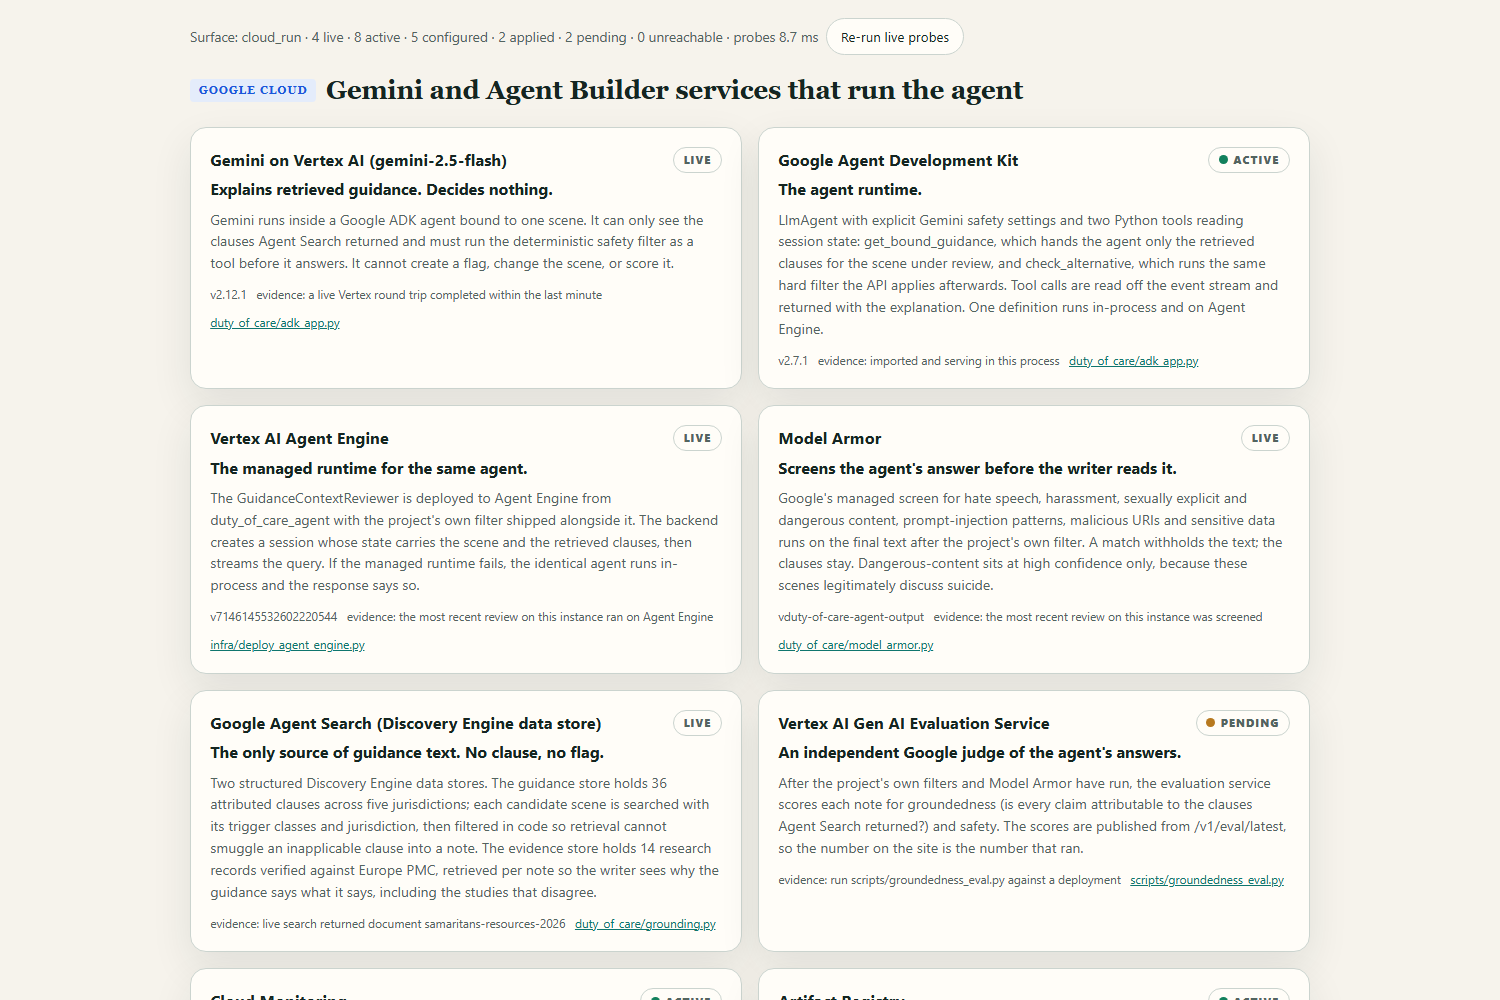
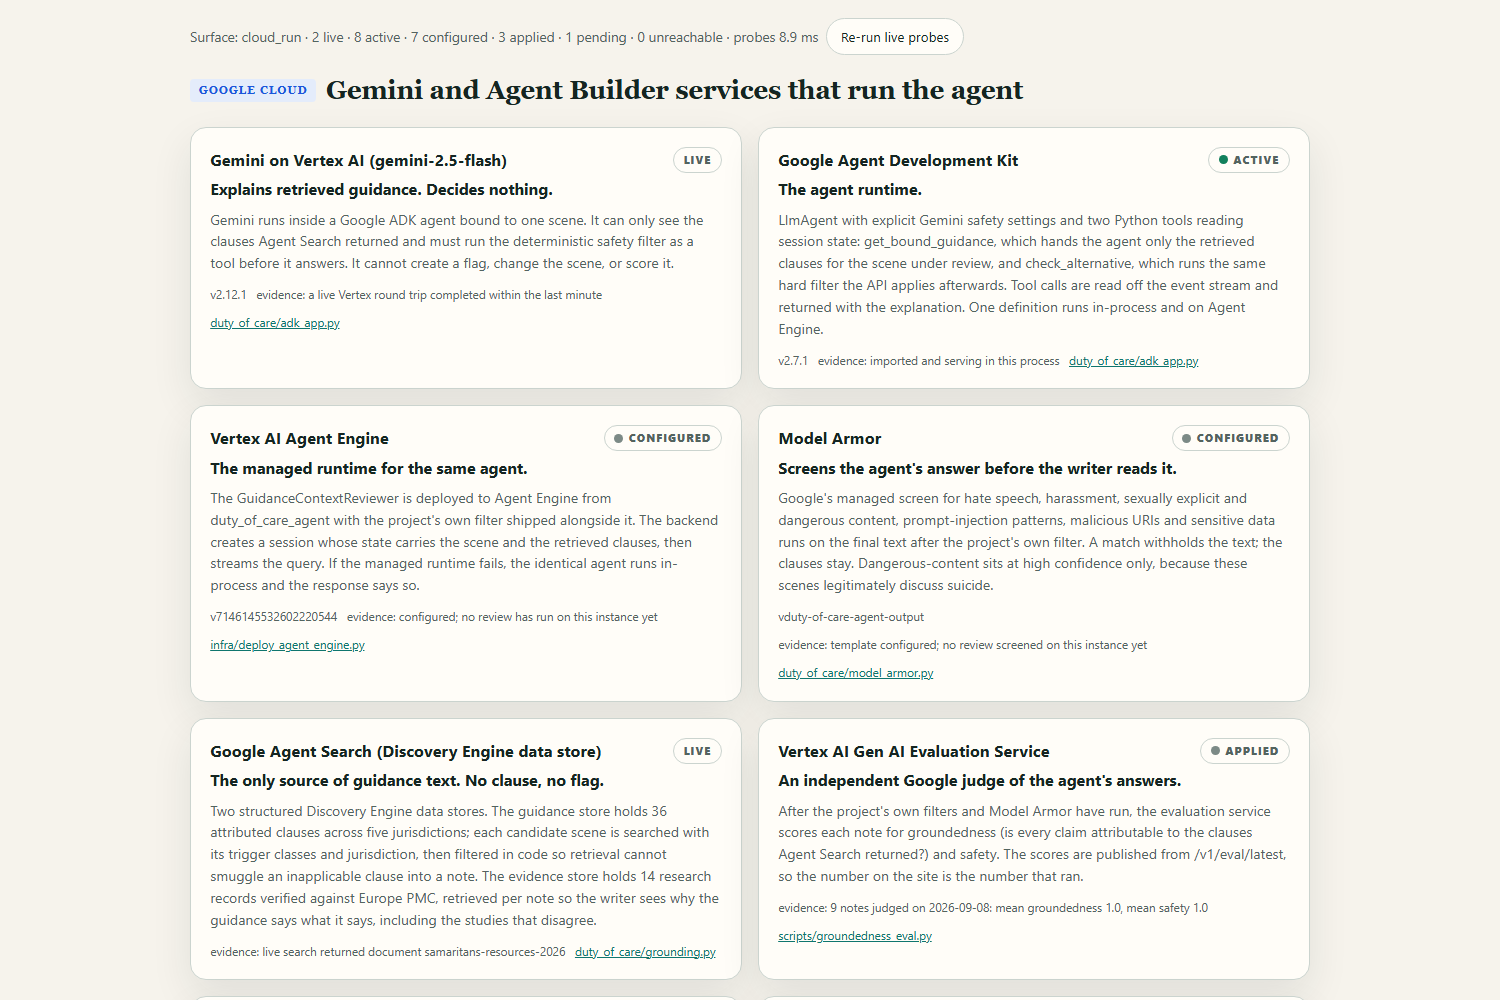
Tell the truth about both surfaces from the Replit deployment
When this host proxies to the Cloud Run backend, /health and /v1/stack read the
Google group from the backend and label it, while the Replit group is computed
locally, so the Replit URL reports Autoscale as active and the backend's live
probes for Gemini, Agent Search, Agent Engine, and Model Armor. Exports fall
back to a local file with a stated reason when App Storage has no bucket yet.

diff --git a/duty_of_care/main.py b/duty_of_care/main.py
@@ -170,12 +170,28 @@ async def _live_integrations() -> dict[str, Any]:
     now = time.monotonic()
     if _HEALTH["value"] and now - float(_HEALTH["checked"]) < 60:
         return dict(_HEALTH["value"])  # type: ignore[arg-type]
+    runtime = replit_platform.runtime()
+    if _backend_url():
+        try:
+            remote = (await asyncio.to_thread(_fetch_backend_json, "/health/integrations"))["data"]["integrations"]
+            google = {key: {**dict(remote.get(key, {"ok": False})), "via": "backend"} for key in ("google_vertex", "agent_search", "google_adk")}
+            backend = {"ok": True, "url": _backend_url()}
+        except Exception as exc:  # noqa: BLE001 - reported, never hidden
+            google = {key: {"ok": False, "detail": f"backend unreachable ({type(exc).__name__})", "via": "backend"} for key in ("google_vertex", "agent_search", "google_adk")}
+            backend = {"ok": False, "url": _backend_url()}
+        value = {
+            **google,
+            "api_keys": {"ok": apikeys.configured()},
+            "replit": {"ok": runtime["on_replit"], "host": runtime["domains"], "deployment": runtime["deployment"]},
+            "backend": backend,
+        }
+        _HEALTH.update(checked=now, value=value)
+        return value
     vertex, search = await asyncio.gather(
         asyncio.to_thread(_vertex_probe),
         asyncio.to_thread(probe_search),
         return_exceptions=True,
     )
-    runtime = replit_platform.runtime()
     value = {
         "google_vertex": vertex if isinstance(vertex, dict) else {"ok": False, "detail": type(vertex).__name__},
         "agent_search": search if isinstance(search, dict) else {"ok": False, "detail": str(search)[:360]},
@@ -192,6 +208,26 @@ async def _live_integrations() -> dict[str, Any]:
 
 def _corpus_version() -> str:
     return replit_platform.corpus_version(CORPUS)
+
+
+def _backend_url() -> str | None:
+    """The Google backend this host proxies to, when this host has no Google credentials.
+
+    On Replit the Google services are answered by Cloud Run, so health and stack
+    for the Google group are read from the backend and labelled as such; the
+    Replit group is always computed locally, because only this process knows it.
+    """
+    url = os.getenv("DUTY_OF_CARE_BACKEND_URL")
+    if url and not os.getenv("VERTEX_SEARCH_DATA_STORE"):
+        return url.rstrip("/")
+    return None
+
+
+def _fetch_backend_json(path: str) -> dict[str, Any]:
+    import urllib.request
+
+    with urllib.request.urlopen(f"{_backend_url()}{path}", timeout=90) as response:  # noqa: S310 - fixed, allowlisted origin
+        return json.loads(response.read().decode("utf-8"))
 
 
 # ------------------------------------------------------------------ pages ----
@@ -242,6 +278,23 @@ async def stack() -> dict[str, object]:
         evidence_store=evidence.configured(),
         agent_quality=run_benchmark(ROOT).get("agent_quality"),
     )
+    if _backend_url():
+        # The Google group is the backend's own live view; only the Replit and app
+        # groups are this host's to report.
+        try:
+            remote = (await asyncio.to_thread(_fetch_backend_json, "/v1/stack"))["data"]
+            google = [dict(component, evidence=((component.get("evidence") or "") + " (reported by the Cloud Run backend)").strip()) for component in remote["components"] if component["group"] == "google"]
+            payload["components"] = google + [component for component in payload["components"] if component["group"] != "google"]
+            payload["backend"] = {"url": _backend_url(), "surface": remote.get("surface")}
+        except Exception as exc:  # noqa: BLE001 - shown as unreachable rather than invented
+            for component in payload["components"]:
+                if component["group"] == "google":
+                    component["status"] = "unreachable"
+                    component["evidence"] = f"backend unreachable ({type(exc).__name__})"
+        payload["summary"] = {
+            state: sum(1 for c in payload["components"] if c["status"] == state)
+            for state in ("live", "active", "configured", "applied", "pending", "unreachable")
+        }
     payload["timing"] = {"query_ms": round((time.perf_counter() - started) * 1000, 1)}
     return {"data": payload, "disclaimer": validate_rendered_text(DISCLAIMER)}
 
@@ -736,21 +789,20 @@ async def create_export(body: ExportBody, request: Request) -> dict[str, object]
     _limited(request, "exports")
     if "disclaimer" not in body.review:
         raise _fail(422, "disclaimer_required", "An export must carry data.disclaimer.", "Send the review payload exactly as /v1/review returned it.")
-    store = replit_platform.export_store()
     payload = json.dumps(
         {"title": body.title, "exported_at": replit_platform.now_iso(), "review": body.review, "meta": body.meta},
         indent=2,
     )
-    export_id = store.put(body.title, payload)
+    export_id, backend, note = replit_platform.put_export(body.title, payload)
     return {
         "ok": True,
-        "data": {"export_id": export_id, "url": f"/v1/exports/{export_id}", "backend": store.backend, "bytes": len(payload)},
+        "data": {"export_id": export_id, "url": f"/v1/exports/{export_id}", "backend": backend, "note": note, "bytes": len(payload)},
     }
 
 
 @app.get("/v1/exports/{export_id}")
 async def get_export(export_id: str) -> Response:
-    text = replit_platform.export_store().get(export_id)
+    text = replit_platform.get_export(export_id)
     if text is None:
         raise _fail(404, "export_not_found", "No export with that id on this host.", "Exports on Cloud Run are ephemeral; on Replit they live in App Storage.")
     return Response(

diff --git a/tests/test_backend_surface.py b/tests/test_backend_surface.py
@@ -1,0 +1,84 @@
+"""When this host proxies to the Cloud Run backend, health and stack tell the truth about both sides."""
+
+from __future__ import annotations
+
+import pytest
+from fastapi.testclient import TestClient
+
+from duty_of_care import main, replit_platform
+from duty_of_care.main import app
+
+
+@pytest.fixture(autouse=True)
+def _surface(monkeypatch: pytest.MonkeyPatch, tmp_path):
+    monkeypatch.setenv("DUTY_OF_CARE_BACKEND_URL", "https://backend.example")
+    monkeypatch.delenv("VERTEX_SEARCH_DATA_STORE", raising=False)
+    monkeypatch.setenv("REPL_ID", "abc")
+    monkeypatch.setenv("REPLIT_DEPLOYMENT", "1")
+    monkeypatch.setenv("REPLIT_DOMAINS", "duty-of-care.replit.app")
+    monkeypatch.setenv("DUTY_OF_CARE_STATE_DIR", str(tmp_path))
+    replit_platform.reset_stores()
+    yield
+    replit_platform.reset_stores()
+
+
+def test_health_reads_google_from_backend_and_replit_locally(monkeypatch: pytest.MonkeyPatch) -> None:
+    def fake_fetch(path: str):
+        assert path == "/health/integrations"
+        return {"data": {"integrations": {"google_vertex": {"ok": True}, "agent_search": {"ok": True}, "google_adk": {"ok": True}}}}
+
+    monkeypatch.setattr(main, "_fetch_backend_json", fake_fetch)
+    body = TestClient(app).get("/health").json()
+    assert body["product_surface"] == "replit"
+    assert body["integrations"]["google_vertex"] == {"ok": True, "via": "backend"}
+    assert body["integrations"]["replit"]["host"] == "duty-of-care.replit.app"
+    assert body["integrations"]["backend"]["ok"] is True
+
+
+def test_stack_merges_backend_google_group_with_local_replit_group(monkeypatch: pytest.MonkeyPatch) -> None:
+    def fake_fetch(path: str):
+        if path == "/health/integrations":
+            return {"data": {"integrations": {"google_vertex": {"ok": True}, "agent_search": {"ok": True}, "google_adk": {"ok": True}}}}
+        return {"data": {"surface": "cloud_run", "components": [
+            {"key": "gemini", "group": "google", "status": "live", "evidence": "probe"},
+            {"key": "replit_deployment", "group": "partner", "status": "pending"},
+        ]}}
+
+    monkeypatch.setattr(main, "_fetch_backend_json", fake_fetch)
+    data = TestClient(app).get("/v1/stack").json()["data"]
+    components = {c["key"]: c for c in data["components"]}
+    assert components["gemini"]["status"] == "live"
+    assert "reported by the Cloud Run backend" in components["gemini"]["evidence"]
+    assert components["replit_deployment"]["status"] == "active"
+    assert "duty-of-care.replit.app" in components["replit_deployment"]["evidence"]
+    assert data["surface"] == "replit"
+    assert data["backend"]["url"] == "https://backend.example"
+
+
+def test_health_reports_unreachable_backend_honestly(monkeypatch: pytest.MonkeyPatch) -> None:
+    def broken(path: str):
+        raise TimeoutError("no answer")
+
+    monkeypatch.setattr(main, "_fetch_backend_json", broken)
+    body = TestClient(app).get("/health").json()
+    assert body["integrations"]["google_vertex"]["ok"] is False
+    assert body["integrations"]["backend"]["ok"] is False
+    assert body["agent_runtime_ready"] is False
+
+
+def test_export_falls_back_when_primary_store_fails(monkeypatch: pytest.MonkeyPatch) -> None:
+    class Broken:
+        backend = "replit_app_storage"
+
+        def put(self, name, text):
+            raise RuntimeError("no bucket")
+
+        def get(self, export_id):
+            return None
+
+    monkeypatch.setattr(replit_platform, "export_store", lambda: Broken())
+    client = TestClient(app)
+    created = client.post("/v1/exports", json={"title": "t", "review": {"disclaimer": "d"}, "meta": {}}).json()["data"]
+    assert created["backend"] == "local_file"
+    assert "replit_app_storage failed" in created["note"]
+    assert client.get(created["url"]).status_code == 200

diff --git a/duty_of_care/replit_platform.py b/duty_of_care/replit_platform.py
@@ -397,6 +397,33 @@ def export_store() -> ExportStore:
     return _EXPORT_STORE
 
 
+def put_export(name: str, text: str) -> tuple[str, str, str | None]:
+    """Store an export on the primary store, falling back to a local file and saying so.
+
+    App Storage on Replit needs a bucket attached to the app; until it is, the
+    export still works and the response names the backend that actually held it.
+    """
+    primary = export_store()
+    try:
+        return primary.put(name, text), primary.backend, None
+    except Exception as exc:  # noqa: BLE001 - the fallback is the point; the reason is reported
+        if primary.backend == "local_file":
+            raise
+        fallback = FileExportStore()
+        return (
+            fallback.put(name, text),
+            fallback.backend,
+            f"{primary.backend} failed ({type(exc).__name__}); stored locally instead",
+        )
+
+
+def get_export(export_id: str) -> str | None:
+    text = export_store().get(export_id)
+    if text is None and export_store().backend != "local_file":
+        text = FileExportStore().get(export_id)
+    return text
+
+
 # ------------------------------------------------------- scheduled re-check ----
 
 

diff --git a/duty_of_care/stack.py b/duty_of_care/stack.py
@@ -284,7 +284,7 @@ def build_stack(
             evidence=(
                 f"serving from {replit.get('runtime', {}).get('domains')}"
                 if deployment
-                else None
+                else ("workspace on Replit; not yet published" if on_replit else "no Replit deployment answered this request")
             ),
             reference=".replit",
         ),
